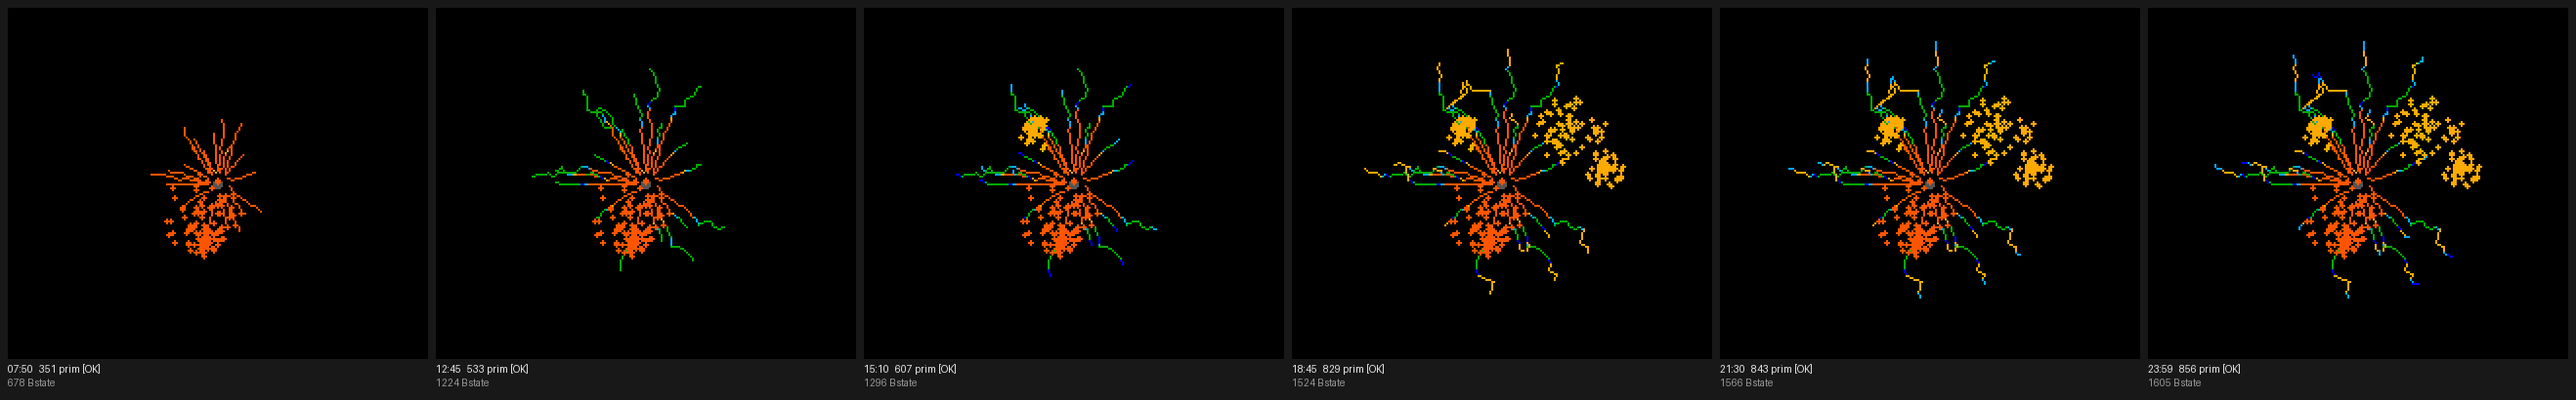
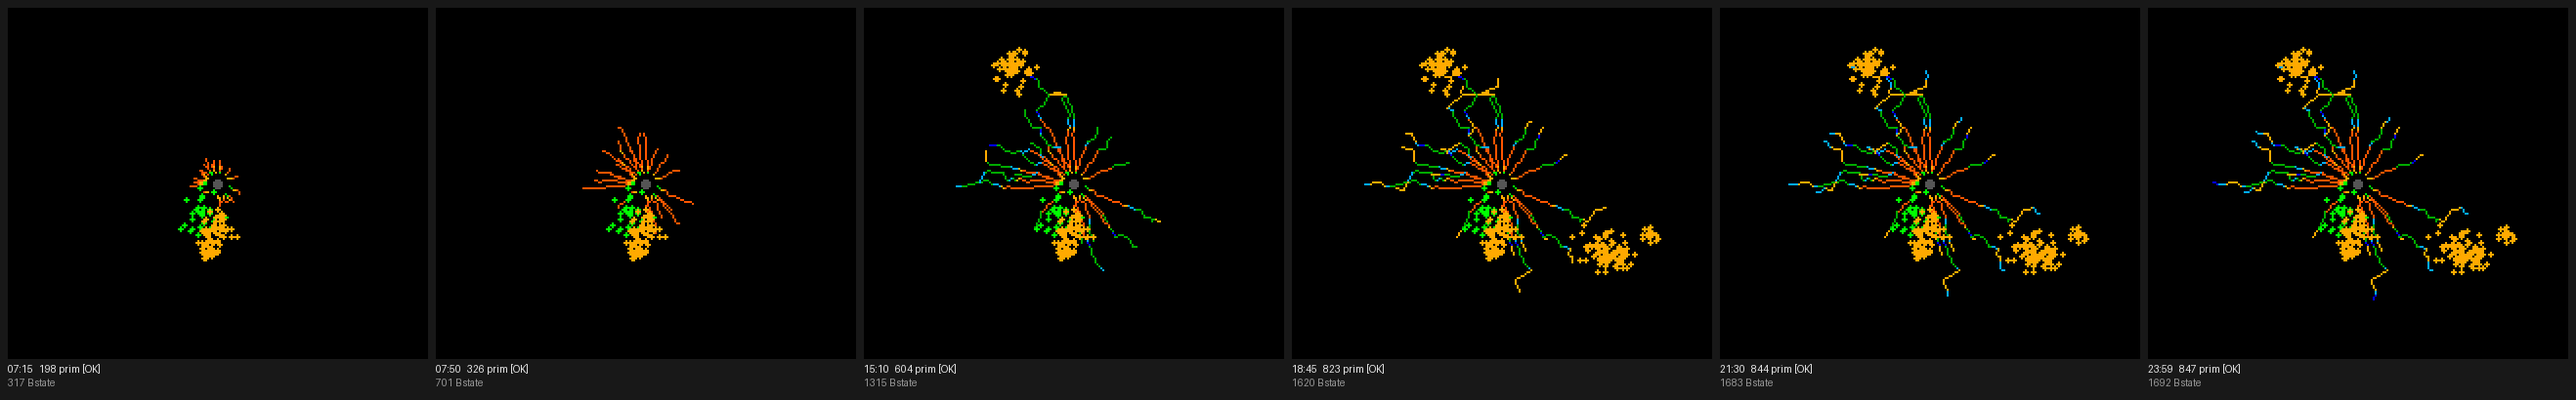
biobloom: zone-banded blooms, trigger from zone 3
Lower the bloom trigger to zone 3 (HR >= 105) so both zone-3 and zone-4
minutes leave a mark. Replace the single peak-zone colour with a growth log:
each elevated minute appends one outward band carrying that minute's HR zone
colour, so a bloom is banded base-to-rim -- a warm-up/build/cruise run reads
lime -> amber -> orange, while a flat effort stays one colour. Nodes and
colonies are now the same mechanism, differing only by how many bands they
accrue; post-episode creep extends the last zone's colour as cooldown. Add a
warm-up ramp to the sandbox run so the banding is exercised.

diff --git a/sketches/algos/biobloom.py b/sketches/algos/biobloom.py
@@ -1,7 +1,7 @@
 #!/usr/bin/env python3
 """Hybrid B+C -- "biobloom": a filament skeleton (B) that only extends when you
-move, with LIVING colony blooms (C) that erupt on it at hard-effort episodes
-and then creep outward along their arm.
+move, with LIVING blooms (C) that erupt on it during elevated-HR episodes and
+record the effort as zone-coloured bands as they grow outward.
 
   threads          = grow from centre, length ONLY advances with movement, so a
                      lazy day stays short and an active day reaches outward
@@ -10,11 +10,14 @@ and then creep outward along their arm.
   branching        = HR trend rising => reaching out    (flag D6)
   wander amplitude = HR variability                     (flag D7)
   frozen threads   = idle / no steps (move-bar)         (flag 9 / D12)
-  COLONY BLOOM     = a sustained hard-effort episode (HR in a high zone for
-                     >= MINLEN min) plants a colony on a thread that then
-                     CREEPS OUTWARD along that arm -- fast while the effort
-                     continues, tapering after it ends -- as a teardrop lobe
-                     pointing at the rim, coloured by the episode's peak zone.
+  BLOOM            = ANY elevated-HR episode (zone >= ACTIVE) erupts on an arm
+                     and grows outward one zone-coloured band per minute, so a
+                     brief burst leaves a small node and a sustained workout a
+                     large colony. Because each minute's band carries that
+                     minute's HR zone, a bloom is BANDED -- a warm-up/build/
+                     cruise run reads lime -> amber -> orange from base to rim.
+                     After the episode the frontier keeps creeping briefly in
+                     the last zone's colour (cooldown momentum), then stops.
 
 Activity-driven: the day's shape is the day's exertion. 14-colour palette, one
 repaint per minute, no within-minute animation. Daily reset (fresh dish).
@@ -30,11 +33,12 @@ STEP = 2            # px of radius per appended vertex
 KMAX = 22           # cap on live filaments
 SEEDS = 9           # initial threads, spread evenly around the centre
 
-HARD = 4            # zone idx >= HARD is a hard-effort minute (HR >= 125)
-MINLEN = 5          # min hard minutes before a colony takes hold
-ENERGY_FEED = 48    # creep energy topped up each minute the effort continues
-CREEP_DIV = 16      # reach gain per minute = energy / CREEP_DIV
-REACH_CAP = 34      # px a colony can creep outward along its arm
+ACTIVE = 3          # zone idx >= ACTIVE is an elevated-HR minute (HR >= 105)
+BASE = 2            # px a bloom starts out from its anchor
+GROW = 3            # px the frontier advances per elevated minute (one band)
+REACH_CAP = 42      # px a bloom can reach outward along its arm
+COOL = 24           # post-episode creep energy (cooldown momentum)
+CREEP_DIV = 16      # creep gain per minute = energy / CREEP_DIV
 
 
 class BioBloom:
@@ -44,9 +48,7 @@ class BioBloom:
         self.fil = []
         self.blooms = []
         self.epi_on = False
-        self.epi_min = 0
-        self.epi_peak = 0
-        self.epi_idx = -1            # index of this episode's bloom, or -1
+        self.epi_idx = -1            # index of the in-progress episode's bloom
         self.bloom_base = imod(hash16(SEEDS, 17, 3), 256)   # per-day phase
         for i in range(SEEDS):
             a = imod(idiv(i * 256, SEEDS) + imod(hash16(91, i, 5), 16), 256)
@@ -125,52 +127,66 @@ class BioBloom:
                 self.fil.append({"a": na, "L": rr * UNIT, "next": rr + STEP,
                                  "v": v, "pts": [self._pt(na, rr, color)]})
 
-        # ---- high-HR episode: short burst -> small node, sustained -> colony ----
-        if zi >= HARD:
+        # ---- elevated-HR episode -> a bloom that grows one zone-band per minute
+        fed = -1
+        if zi >= ACTIVE:
             if not self.epi_on:
                 self.epi_on = True
-                self.epi_min = 0
-                self.epi_peak = zi
-                self.epi_idx = -1
-            self.epi_min += 1
-            if zi > self.epi_peak:
-                self.epi_peak = zi
-            if self.epi_min == MINLEN:                # graduates to a living colony
-                self.epi_idx = self._seed(3, 4 + idiv(vrange, 6), ENERGY_FEED)
-            if self.epi_idx >= 0:
-                b = self.blooms[self.epi_idx]
-                b["energy"] = ENERGY_FEED            # keep feeding while working
-                b["color"] = ZONE_COLORS[self.epi_peak]
+                self.epi_idx = self._seed(zi)        # erupt on the first minute
+            b = self.blooms[self.epi_idx]
+            w = 3 + idiv(vrange, 8)                   # variability => wider bloom
+            if w > 16:
+                w = 16
+            if w > b["w"]:
+                b["w"] = w
+            self._band(b, ZONE_COLORS[zi])            # this minute's zone colour
+            b["energy"] = COOL
+            fed = self.epi_idx
         else:
-            if self.epi_on and self.epi_idx < 0:
-                # ended before graduating: a brief high-HR burst -> static node,
-                # slightly bigger for a longer burst, no creep energy
-                self._seed(4 + self.epi_min, 2 + idiv(vrange, 12), 0)
             self.epi_on = False
             self.epi_idx = -1
 
-        self._creep()
+        self._creep(fed)
 
-    def _seed(self, reach, w, energy):
+    def _seed(self, zi):
         # spread headings by ~137.5 deg (golden angle = 98/256) per bloom, plus
         # jitter, so successive eruptions fan out around the dish
         target = imod(self.bloom_base + len(self.blooms) * 98
-                      + imod(hash16(self.epi_peak, len(self.blooms), 7), 22), 256)
+                      + imod(hash16(zi, len(self.blooms), 7), 22), 256)
         f = self._nearest(target)
         bx, by, _ = f["pts"][-1]
-        self.blooms.append({"bx": bx, "by": by, "ang": f["a"], "reach": reach,
-                            "w": w, "color": ZONE_COLORS[self.epi_peak],
-                            "salt": imod(hash16(bx, by, self.epi_peak), 4096),
-                            "energy": energy})
+        self.blooms.append({"bx": bx, "by": by, "ang": f["a"], "reach": BASE,
+                            "w": 3, "bands": [],
+                            "salt": imod(hash16(bx, by, zi), 4096),
+                            "energy": 0})
         return len(self.blooms) - 1
 
-    def _creep(self):
-        for b in self.blooms:
-            if b["energy"] > 0:
-                b["reach"] += idiv(b["energy"], CREEP_DIV)
-                if b["reach"] > REACH_CAP:
-                    b["reach"] = REACH_CAP
-                b["energy"] = idiv(b["energy"] * 7, 8)   # taper after episode
+    def _band(self, b, color):
+        # append one outward band of the current zone colour
+        r0 = b["reach"]
+        r1 = r0 + GROW
+        if r1 > REACH_CAP:
+            r1 = REACH_CAP
+        if r1 > r0:
+            b["bands"].append((r0, r1, color))
+            b["reach"] = r1
+
+    def _creep(self, fed):
+        # blooms not grown this minute creep on a little in their last zone's
+        # colour, tapering to a stop -- the cooldown after the effort
+        i = 0
+        while i < len(self.blooms):
+            b = self.blooms[i]
+            if i != fed and b["energy"] > 0 and b["reach"] < REACH_CAP and b["bands"]:
+                r0 = b["reach"]
+                r1 = r0 + idiv(b["energy"], CREEP_DIV)
+                if r1 > REACH_CAP:
+                    r1 = REACH_CAP
+                if r1 > r0:
+                    b["bands"].append((r0, r1, b["bands"][-1][2]))
+                    b["reach"] = r1
+                b["energy"] = idiv(b["energy"] * 7, 8)
+            i += 1
 
     def render(self, dc, snap):
         dc.setColor(COLOR_DK_GRAY, COLOR_BLACK)
@@ -187,17 +203,32 @@ class BioBloom:
         for b in self.blooms:
             self._draw_bloom(dc, b)
 
+    def _band_color(self, b, r):
+        # colour of the band covering radius r (the zone active when the
+        # frontier reached there)
+        for band in b["bands"]:
+            if r <= band[1]:
+                return band[2]
+        return b["bands"][-1][2]
+
     def _draw_bloom(self, dc, b):
-        dc.setColor(b["color"], COLOR_BLACK)
+        if not b["bands"]:
+            return
         ang = b["ang"]
         fx, fy = isin(ang + 64), isin(ang)        # outward unit (cos, sin)*127
         px, py = isin(ang + 128), isin(ang + 64)  # perpendicular unit
         reach, w, salt = b["reach"], b["w"], b["salt"]
 
         # a chain of sub-lobes marching outward and shrinking -> rough, lumpy
-        # frontier rather than a smooth teardrop
+        # frontier; each lobe is coloured by the zone band at its radius, so the
+        # colony reads banded from base to rim
         nlob = 2 + imod(hash16(salt, 0, 5), 3)    # 2..4 lobes
-        lob = []
+        n = reach * 2 + w * 5
+        if n > 150:
+            n = 150
+        per = idiv(n, nlob)
+        if per < 4:
+            per = 4
         j = 0
         while j < nlob:
             lf = idiv((j + 1) * 230, nlob + 1) + imod(hash16(salt, j, 6), 26)
@@ -206,24 +237,22 @@ class BioBloom:
             lx = b["bx"] + idiv(along * fx, 127) + idiv(po * px, 127)
             ly = b["by"] + idiv(along * fy, 127) + idiv(po * py, 127)
             lr = 2 + idiv(w * (nlob - j), nlob)              # outer lobes smaller
-            lob.append((lx, ly, lr))
+            dc.setColor(self._band_color(b, along), COLOR_BLACK)
+            k = 0
+            while k < per:
+                s = j * 97 + k
+                rr = imod(hash16(salt, s, 1), lr + 1)
+                a2 = imod(hash16(salt, s, 2), 256)
+                x = lx + idiv(rr * isin(a2 + 64), 127)
+                y = ly + idiv(rr * isin(a2), 127)
+                dc.fillCircle(x, y, 1)
+                k += 1
             j += 1
 
-        n = reach * 2 + w * 5
-        if n > 150:
-            n = 150
-        k = 0
-        while k < n:
-            lx, ly, lr = lob[imod(hash16(salt, k, 3), nlob)]
-            rr = imod(hash16(salt, k, 1), lr + 1)
-            a2 = imod(hash16(salt, k, 2), 256)
-            x = lx + idiv(rr * isin(a2 + 64), 127)
-            y = ly + idiv(rr * isin(a2), 127)
-            dc.fillCircle(x, y, 1)
-            k += 1
-
     def state_bytes(self):
-        return sum(len(f["pts"]) for f in self.fil) * 3 + len(self.blooms) * 12
+        return (sum(len(f["pts"]) for f in self.fil) * 3
+                + sum(len(b["bands"]) for b in self.blooms) * 6
+                + len(self.blooms) * 8)
 
 
 def build():

diff --git a/sketches/day.py b/sketches/day.py
@@ -37,7 +37,9 @@ class Snapshot:
 _SEG_ACTIVE = [
     (0.0,  0,   52),   # sleep
     (6.5,  12,  68),   # waking
-    (7.0,  158, 150),  # morning run
+    (7.0,  120, 112),  # morning run -- warm-up      (zone 3)
+    (7.083, 150, 132), # building                    (zone 4, ~7:05)
+    (7.166, 158, 150), # cruising                     (zone 5, ~7:10)
     (8.0,  18,  84),   # shower / commute
     (9.0,  3,   62),   # desk
     (12.0, 105, 96),   # lunch walk
